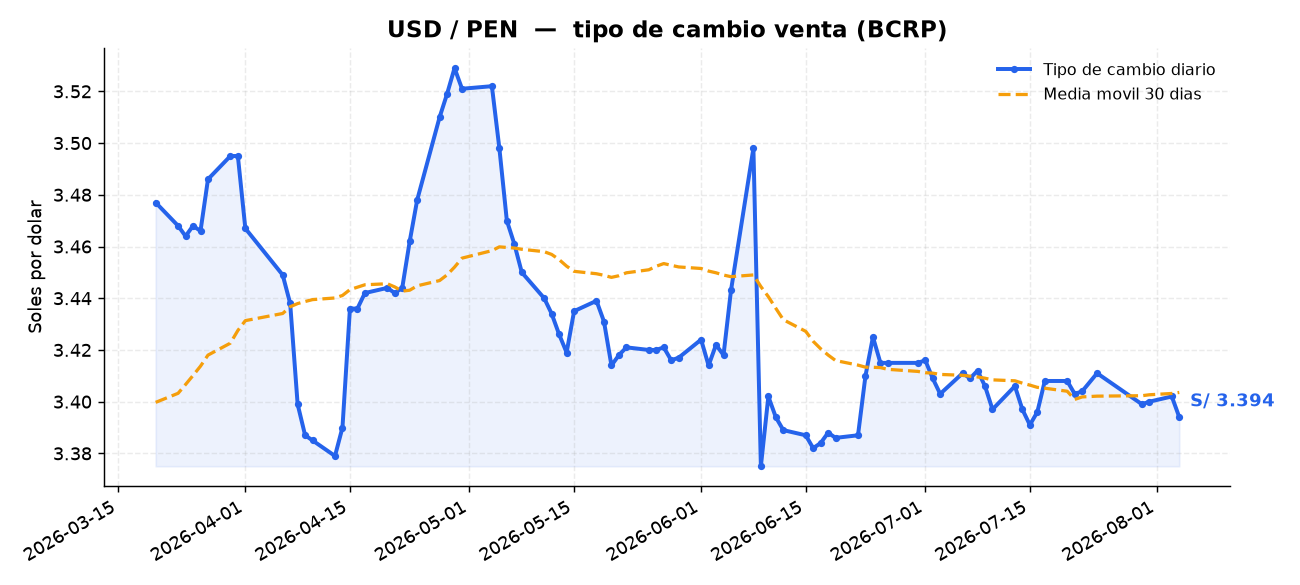
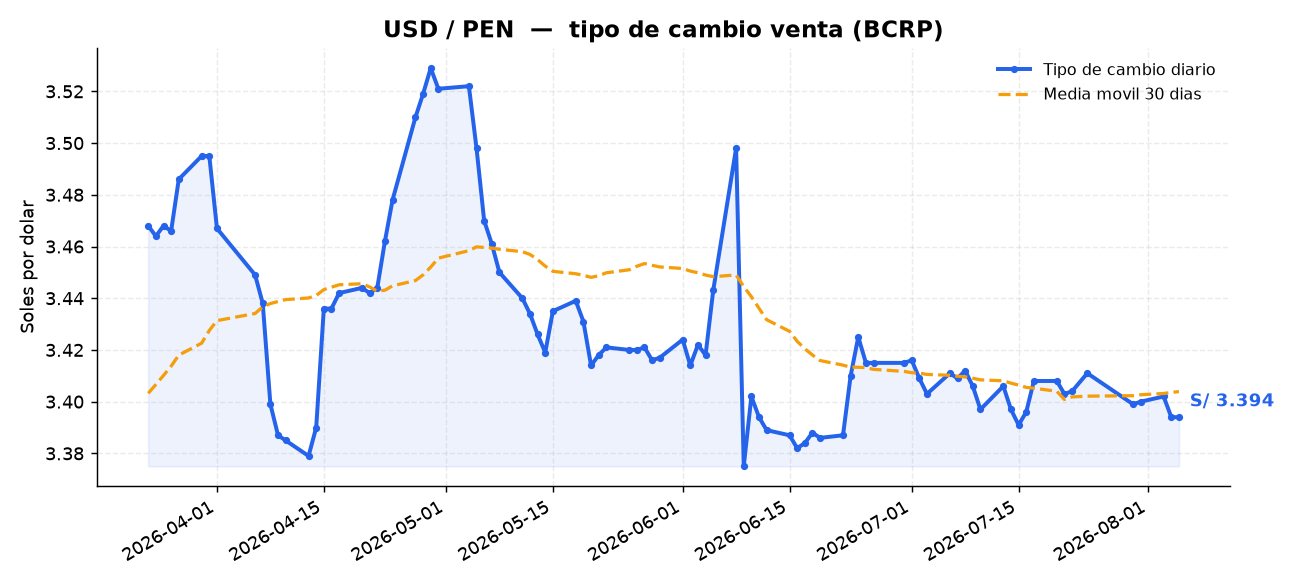
chore: actualiza datos del tipo de cambio

diff --git a/README.md b/README.md
@@ -16,19 +16,19 @@ GitHub Actions.
 
 <!--DATA:START-->
 
-### 💵 Dólar hoy: **S/ 3.394**  🔻 -0.23%
+### 💵 Dólar hoy: **S/ 3.394**  ▪ +0.00%
 
-_Última actualización: 2026-08-04 (automática vía GitHub Actions)_
+_Última actualización: 2026-08-05 (automática vía GitHub Actions)_
 
 | Métrica | Valor |
 |---|---|
 | Tipo de cambio actual | S/ 3.3940 |
-| Variación vs. día anterior | -0.0080 (-0.23%) |
-| Tendencia | bajando |
-| Mínimo (30 días) | S/ 3.3840 |
+| Variación vs. día anterior | +0.0000 (+0.00%) |
+| Tendencia | estable |
+| Mínimo (30 días) | S/ 3.3860 |
 | Máximo (30 días) | S/ 3.4250 |
-| Promedio (30 días) | S/ 3.4036 |
-| Volatilidad (30 días, desv. est.) | 0.0101 |
+| Promedio (30 días) | S/ 3.4039 |
+| Volatilidad (30 días, desv. est.) | 0.0096 |
 
 ![Evolución USD/PEN](charts/usd_pen.png)
 
